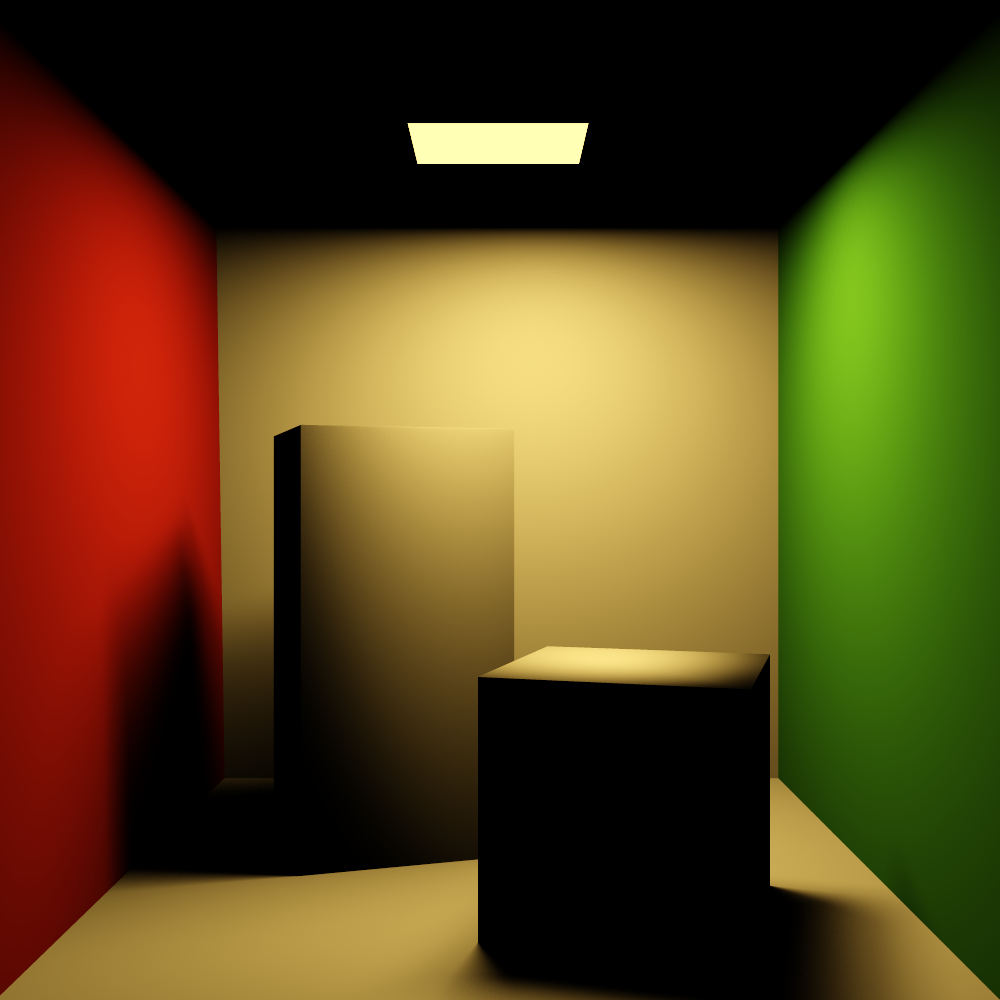
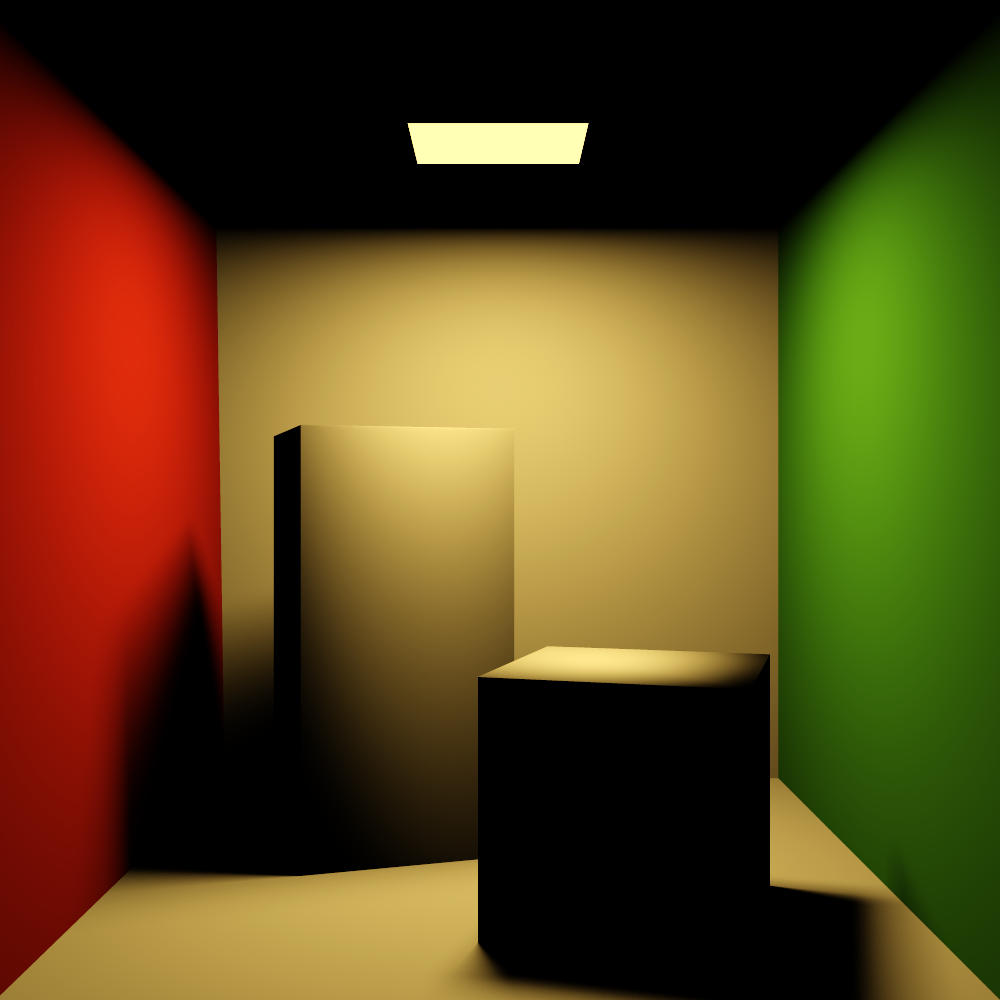
fix: uniform sampling of triangle, and scene shape stats were wrong

diff --git a/src/sampling.cpp b/src/sampling.cpp
@@ -1,0 +1,69 @@
+#include "sampling.hpp"
+#include <algorithm>
+
+namespace PT
+{
+
+glm::vec2 UniformSampleDisk( float u1, float u2, float radius )
+{
+    float r     = radius * std::sqrt( u1 );
+    float theta = 2 * M_PI * u2;
+    return r * glm::vec2( std::cos( theta ), std::sin( theta ) );
+}
+
+// http://l2program.co.uk/900/concentric-disk-sampling
+glm::vec2 ConcentricSampleDisk( float u1, float u2, float radius )
+{
+    u1 = 2 * u1 - 1;
+    u2 = 2 * u2 - 1;
+
+    if ( u1 == 0 && u2 == 0 )
+    {
+        return { 0, 0 };
+    }
+
+    float theta = 0;
+    float r     = radius;
+    if ( u1*u1 > u2*u2 )
+    {
+        r *= u1;
+        theta = (M_PI/4) * (u2/u1);
+    }
+    else
+    {
+        r *= u2;
+        theta = (M_PI/2) - (M_PI/4) * (u1/u2);
+    }
+    return r * glm::vec2( std::cos( theta ), std::sin( theta ) );
+}
+
+glm::vec3 UniformSampleHemisphere( float u1, float u2 )
+{
+    float z     = u1;
+    float r     = std::sqrt( std::max( 0.f, 1 - z * z ) );
+    float theta = 2 * M_PI * u2;
+    return glm::vec3( r * std::cos( theta ), r * std::sin( theta ), z );
+}
+
+glm::vec3 CosineSampleHemisphere( float u1, float u2 )
+{
+    auto d  = ConcentricSampleDisk( u1, u2 );
+    float z = std::sqrt( std::max( 0.f, 1 - d.x*d.x - d.y*d.y) );
+    return { d.x, d.y, z };
+}
+
+glm::vec3 UniformSampleSphere( float u1, float u2 )
+{
+    float z     = 1 - 2 * u1;
+    float r     = std::sqrt( std::max( 0.f, 1 - z * z ) );
+    float theta = 2 * M_PI * u2;
+    return glm::vec3( r * std::cos( theta ), r * std::sin( theta ), z );
+}
+
+glm::vec2 UniformSampleTriangle( float u1, float u2 )
+{
+    float su0 = std::sqrt( u1 );
+    return { 1 - su0, u2 * su0 };
+}
+
+} // namespace PT

diff --git a/src/shapes.cpp b/src/shapes.cpp
@@ -2,6 +2,7 @@
 #include "intersection_tests.hpp"
 #include "utils/random.hpp"
 #include "resource/model.hpp"
+#include "sampling.hpp"
 
 namespace PT
 {
@@ -14,8 +15,9 @@ Material* Sphere::GetMaterial() const
 SurfaceInfo Sphere::Sample() const
 {
     SurfaceInfo info;
-    info.position = position + radius * glm::normalize( glm::vec3( Random::Rand(), Random::Rand(), Random::Rand() ) );
-    info.normal   = glm::normalize( info.position - position );
+    glm::vec3 randNormal = UniformSampleSphere( Random::Rand(), Random::Rand() );
+    info.position        = position + radius * randNormal;
+    info.normal          = randNormal;
     return info;
 }
 
@@ -60,11 +62,12 @@ Material* Triangle::GetMaterial() const
 SurfaceInfo Triangle::Sample() const
 {
     SurfaceInfo info;
-    float u = Random::Rand();
-    float v = Random::Rand();
+    glm::vec2 sample = UniformSampleTriangle( Random::Rand(), Random::Rand() );
+    float u = sample.x;
+    float v = sample.y;
     const auto& obj = mesh->data;
-    info.position   = ( 1 - u - v ) * obj.vertices[i0]  + u * obj.vertices[i1] + v * obj.vertices[i2];
-    info.normal     = glm::normalize( ( 1 - u - v ) * obj.normals[i0] + u * obj.normals[i1] + v * obj.normals[i2] );
+    info.position   = u * obj.vertices[i0] + v * obj.vertices[i1] + ( 1 - u - v ) * obj.vertices[i2];
+    info.normal     = glm::normalize( u * obj.normals[i0] + v * obj.normals[i1] + ( 1 - u - v ) * obj.normals[i2] );
     return info;
 }
 

diff --git a/src/scene.cpp b/src/scene.cpp
@@ -329,7 +329,7 @@ bool Scene::Load( const std::string& filename )
     // compute some scene statistics
     size_t numSpheres = 0, numTris = 0;
     size_t numPointLights = 0, numDirectionalLights = 0, numAreaLights = 0;
-    for ( const auto& shape : shapes )
+    for ( const auto& shape : bvh.shapes )
     {
         if ( std::dynamic_pointer_cast< Sphere >( shape ) ) numSpheres += 1;
         else if ( std::dynamic_pointer_cast< Triangle >( shape ) ) numTris += 1;

diff --git a/src/sampling.hpp b/src/sampling.hpp
@@ -1,0 +1,20 @@
+#pragma once
+
+#include "math.hpp"
+
+namespace PT
+{
+
+glm::vec2 UniformSampleDisk( float u1, float u2, float radius = 1 );
+
+glm::vec2 ConcentricSampleDisk( float u1, float u2, float radius = 1 );
+
+glm::vec3 UniformSampleHemisphere( float u1, float u2 );
+
+glm::vec3 CosineSampleHemisphere( float u1, float u2 );
+
+glm::vec3 UniformSampleSphere( float u1, float u2 );
+
+glm::vec2 UniformSampleTriangle( float u1, float u2 );
+
+} // namespace PT
